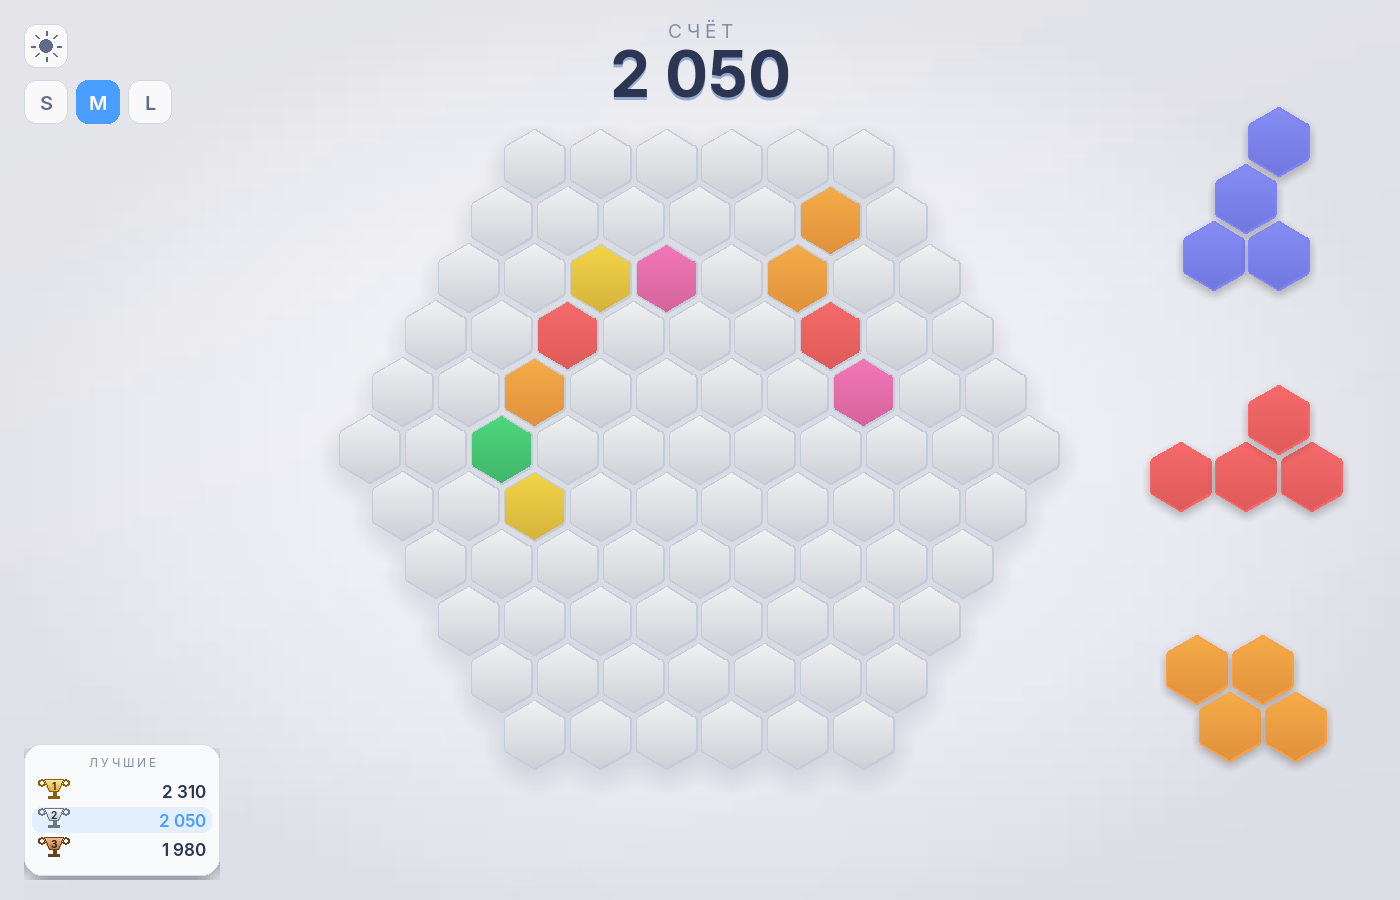
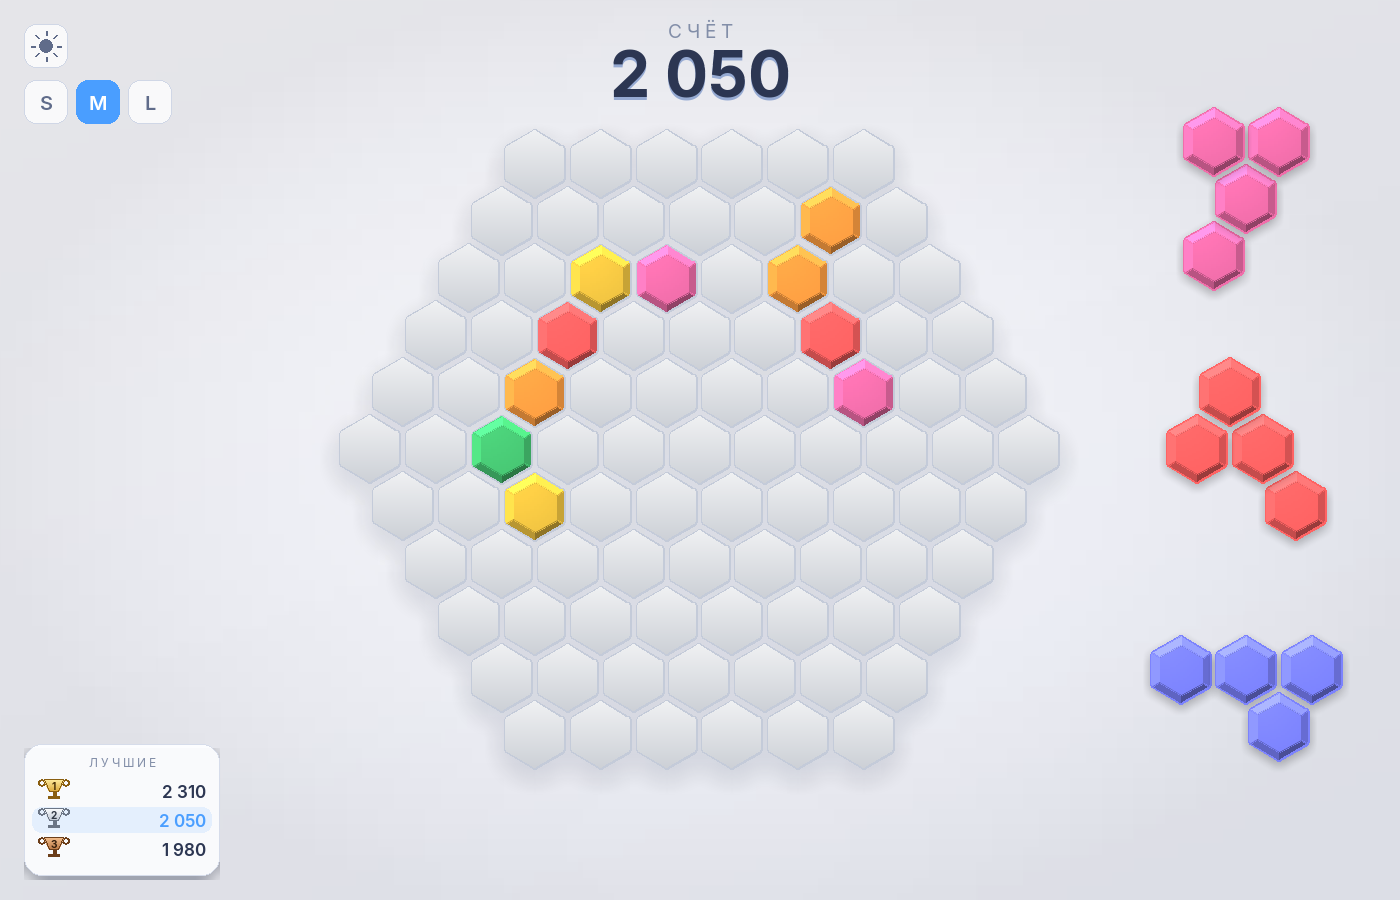
Объём у цветных гексов
Цветные гексы выглядели плоскими плитками: линейный градиент красил все
одинаково, и рёбра в картинке не участвовали. Добавлены купол и фаска —
только для фигур в пуле и поставленных на поле.

Купол — радиальный градиент со смещённым к верхнему левому углу центром.
Он заменил прежний линейный, а не лёг поверх: два градиента друг на друге
дали бы грязный цвет. Считается в текстуре 64x64 и растягивается — рисовать
десятки кругов в полном размере спрайта заметно дороже, а на глаз разницы
нет.

Фаска — кольцо между контуром и сжатой копией, разбитое на шесть трапеций
по числу рёбер. Яркость каждой считается по нормали ребра к направлению
света. Свет падает сверху-слева, туда же, куда смещена тень под гексами,
поэтому объём и тень не спорят.

Первая попытка дала почти незаметный результат: при ширине фаски 4 px её
перекрывала обводка толщиной 2 px, и на скос оставалось всего 2 px. Ширина
поднята до 10 px, сила до 0.40 — теперь грани читаются в обеих темах.
Фаска растёт строго внутрь: силуэт гекса не изменился ни на одном размере
поля (74, 62 и 52 px), соседние ячейки не смыкаются.

Объём получают только цветные гексы. Пустые и подсвеченные ячейки остаются
плоскими: на всей сетке это превращало бы поле в стёганое одеяло из
девяноста выпуклых плиток.

Настройки в settings.py: VOLUME_ENABLED, VOLUME_DARK, VOLUME_LIGHT,
BEVEL_WIDTH, BEVEL_STRENGTH.

Проверки: 204 кадра анимаций сверены с полной перерисовкой — следов нет;
[…]

diff --git a/sprites.py b/sprites.py
@@ -6,11 +6,17 @@
 не только не замедляют кадр, но и ускоряют его.
 """
 import pygame as pg
+from math import cos, pi, sin, sqrt
 from pygame import gfxdraw
 
-from settings import BORDER_WIDTH
+from settings import (BORDER_WIDTH, HEX_MARGIN, VOLUME_DARK, VOLUME_ENABLED,
+                      VOLUME_LIGHT, BEVEL_WIDTH, BEVEL_STRENGTH)
 from config import board
 from utils import hexagon_points
+
+# Направление на источник света для фаски. Свет падает сверху-слева, как и
+# тень под гексами, поэтому объём и тень не спорят друг с другом.
+LIGHT_X, LIGHT_Y = -0.42, -0.91
 
 
 def shade(color, factor):
@@ -46,6 +52,84 @@ def _gradient_body(size, fill, scale=1.0):
     return body
 
 
+def _mask(size, cx, cy, scale=1.0):
+    """Маска по контуру гекса: ею обрезаются эффекты объёма."""
+    mask = pg.Surface((size, size), pg.SRCALPHA)
+    gfxdraw.filled_polygon(mask, _int_points(cx, cy, scale), (255, 255, 255, 255))
+    return mask
+
+
+def _corner_points(cx, cy, scale=1.0):
+    """Контур без скруглений: грани фаски должны сходиться в настоящих углах."""
+    radius = (board.radius - HEX_MARGIN) * scale
+    points = []
+    alpha = pi / 6
+    for _ in range(6):
+        points.append((cx + radius * cos(alpha), cy - radius * sin(alpha)))
+        alpha += pi / 3
+    return points
+
+
+def _add_dome(layer, cx, cy, scale, fill, dark, light):
+    """Радиальный градиент: светлое пятно смещено к верхнему левому углу.
+
+    Линейный градиент красит все гексы одинаково, поэтому они выглядят
+    плоскими плитками. Купол даёт центру объём: блик сверху-слева, тень
+    по краям.
+
+    Градиент считается в маленькой текстуре и растягивается: рисовать
+    десятки кругов в полном размере спрайта заметно дороже, а на глаз
+    разницы нет.
+    """
+    size = layer.get_size()[0]
+    small = 64
+    gradient = pg.Surface((small, small), pg.SRCALPHA)
+    origin_x, origin_y = int(small * 0.38), int(small * 0.30)
+    max_radius = int(small * 0.95)
+    for radius in range(max_radius, 0, -1):
+        ratio = radius / max_radius
+        color = shade(fill, dark + (light - dark) * (1 - ratio))
+        pg.draw.circle(gradient, (*color, 255), (origin_x, origin_y), radius)
+
+    texture = pg.transform.smoothscale(gradient, (size, size))
+    texture.blit(_mask(size, cx, cy, scale), (0, 0), special_flags=pg.BLEND_RGBA_MIN)
+    layer.blit(texture, (0, 0))
+
+
+def _add_bevel(layer, cx, cy, scale, fill, width, strength):
+    """Фаска по рёбрам: грани к свету светлее, от света темнее.
+
+    Кольцо между контуром и сжатой копией делится на шесть трапеций по
+    числу рёбер; яркость каждой считается по её нормали. Так у гекса
+    появляются настоящие грани, а не только градиент.
+    """
+    size = layer.get_size()[0]
+    radius = (board.radius - HEX_MARGIN) * scale
+    if radius <= width:
+        return
+
+    factor = 1.0 - width / radius
+    outer = _corner_points(cx, cy, scale)
+    inner = [(cx + (x - cx) * factor, cy + (y - cy) * factor) for x, y in outer]
+
+    ring = pg.Surface((size, size), pg.SRCALPHA)
+    for index in range(6):
+        following = (index + 1) % 6
+        # Нормаль ребра — от центра к его середине.
+        normal_x = (outer[index][0] + outer[following][0]) / 2 - cx
+        normal_y = (outer[index][1] + outer[following][1]) / 2 - cy
+        length = sqrt(normal_x * normal_x + normal_y * normal_y) or 1
+        dot = (normal_x / length) * LIGHT_X + (normal_y / length) * LIGHT_Y
+        color = shade(fill, 1.0 + strength * dot)
+        quad = [outer[index], outer[following], inner[following], inner[index]]
+        points = [(int(round(x)), int(round(y))) for x, y in quad]
+        gfxdraw.filled_polygon(ring, points, (*color, 255))
+        gfxdraw.aapolygon(ring, points, (*color, 255))
+
+    ring.blit(_mask(size, cx, cy, scale), (0, 0), special_flags=pg.BLEND_RGBA_MIN)
+    layer.blit(ring, (0, 0))
+
+
 def _stroke(surface, points, color, width, cx, cy, scale=1.0):
     """Обводка контура заданной толщины, растущая внутрь.
 
@@ -76,13 +160,15 @@ def _stroke(surface, points, color, width, cx, cy, scale=1.0):
 
 
 def make_hex_sprite(fill, border, scale=1.0, pad=26, shadow_alpha=0, glow=None,
-                    inner_light=True, blur=7, border_width=1):
+                    inner_light=True, blur=7, border_width=1, volume=False):
     """Собирает гекс как спрайт.
 
     pad — запас вокруг гекса под тень и свечение;
     shadow_alpha — сила мягкой тени (0 отключает её);
     glow — цвет внешнего свечения (используется для подсветки ячейки);
-    border_width — толщина обводки в пикселях.
+    border_width — толщина обводки в пикселях;
+    volume — добавить объём (купол и фаску). Включается только у цветных
+    гексов: на пустых ячейках он превращал бы поле в стёганое одеяло.
     """
     size = int(2 * (board.radius * scale + pad))
     cx = cy = size / 2
@@ -104,7 +190,14 @@ def make_hex_sprite(fill, border, scale=1.0, pad=26, shadow_alpha=0, glow=None,
         halo.set_alpha(150)
         layer.blit(halo, (0, 0))
 
-    layer.blit(_gradient_body(size, fill, scale), (0, 0))
+    if volume:
+        # Купол заменяет линейный градиент: два градиента друг на друге
+        # дали бы грязный цвет.
+        _add_dome(layer, cx, cy, scale, fill, VOLUME_DARK, VOLUME_LIGHT)
+        _add_bevel(layer, cx, cy, scale, fill,
+                   BEVEL_WIDTH * scale, BEVEL_STRENGTH)
+    else:
+        layer.blit(_gradient_body(size, fill, scale), (0, 0))
 
     _stroke(layer, points, (*border, 255), max(1, int(round(border_width * scale))),
             cx, cy, scale)
@@ -197,6 +290,8 @@ class SpriteCache:
             shadow_alpha=shadow_alpha,
             glow=glow,
             border_width=BORDER_WIDTH,
+            # Объём получают только цветные гексы: 'placed' и 'figure'.
+            volume=VOLUME_ENABLED and state in ('placed', 'figure'),
         )
         self._cache[key] = sprite
         return sprite

diff --git a/settings.py b/settings.py
@@ -27,6 +27,22 @@ CORNER_ROUNDING = 3
 # толщиной в один пиксель, и после скругления углов она почти пропадает.
 BORDER_WIDTH = 2
 
+# Объём цветных гексов (фигуры в пуле и поставленные на поле). Пустые и
+# подсвеченные ячейки остаются плоскими: объём на всей сетке превращал бы
+# поле в стёганое одеяло из девяноста выпуклых плиток.
+#
+# Купол — радиальный градиент со смещённым к свету центром: тёмный и светлый
+# тон заливки. Фаска — ширина скоса по рёбрам и сила его подсветки.
+#
+# Ширина фаски должна быть заметно больше BORDER_WIDTH: обводка рисуется
+# поверх скоса и при прежних 4 px перекрывала его почти целиком — грани
+# выглядели еле различимой полоской.
+VOLUME_ENABLED = True
+VOLUME_DARK = 0.90
+VOLUME_LIGHT = 1.10
+BEVEL_WIDTH = 10.0
+BEVEL_STRENGTH = 0.40
+
 # Параметры игрового поля
 EMPTY_HEXAGON_COLOR = (220, 220, 220)
 MARKED_HEXAGON_COLOR = (180, 180, 180)
